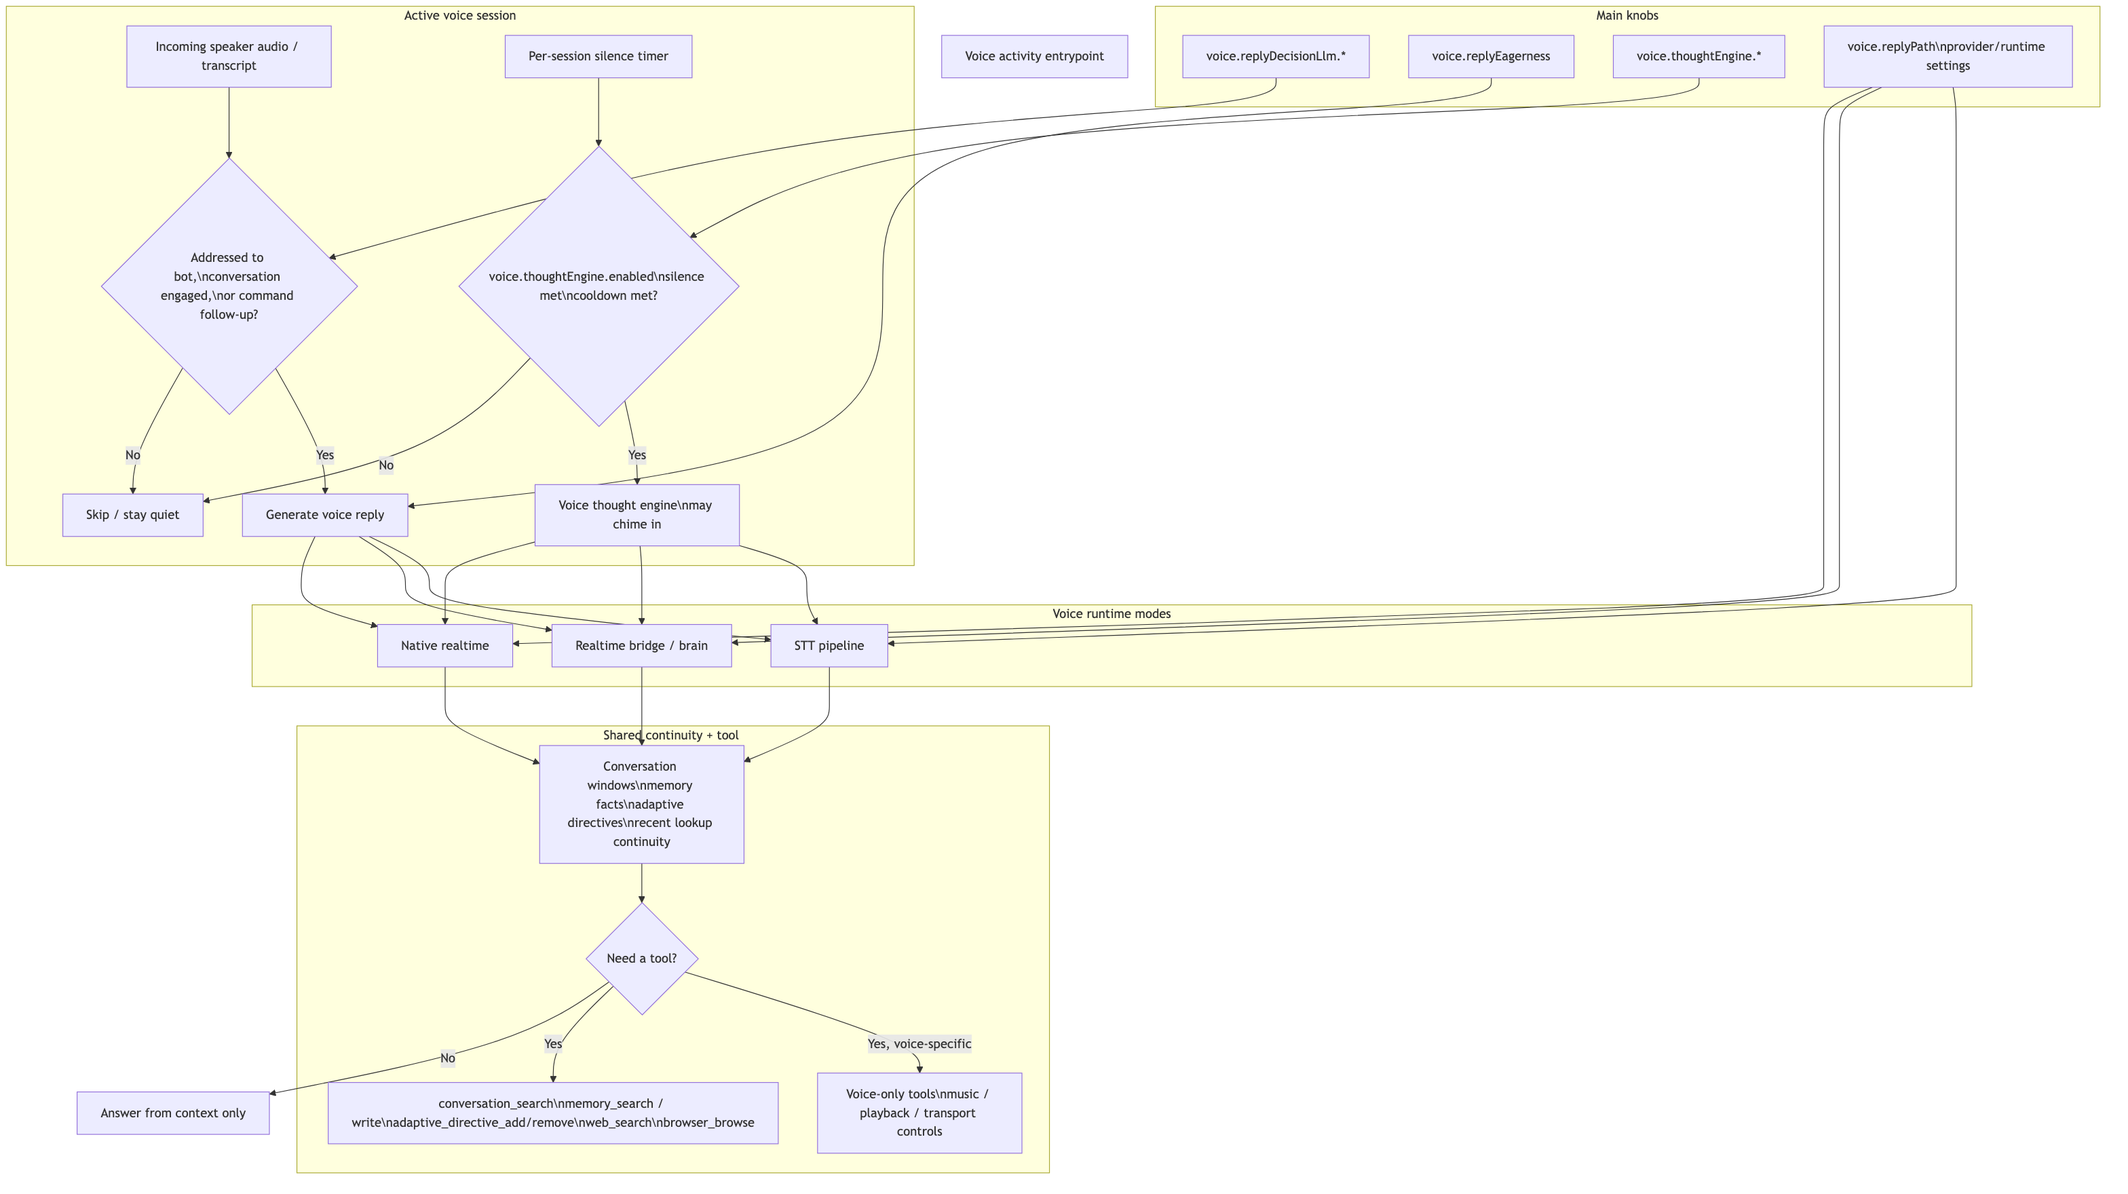
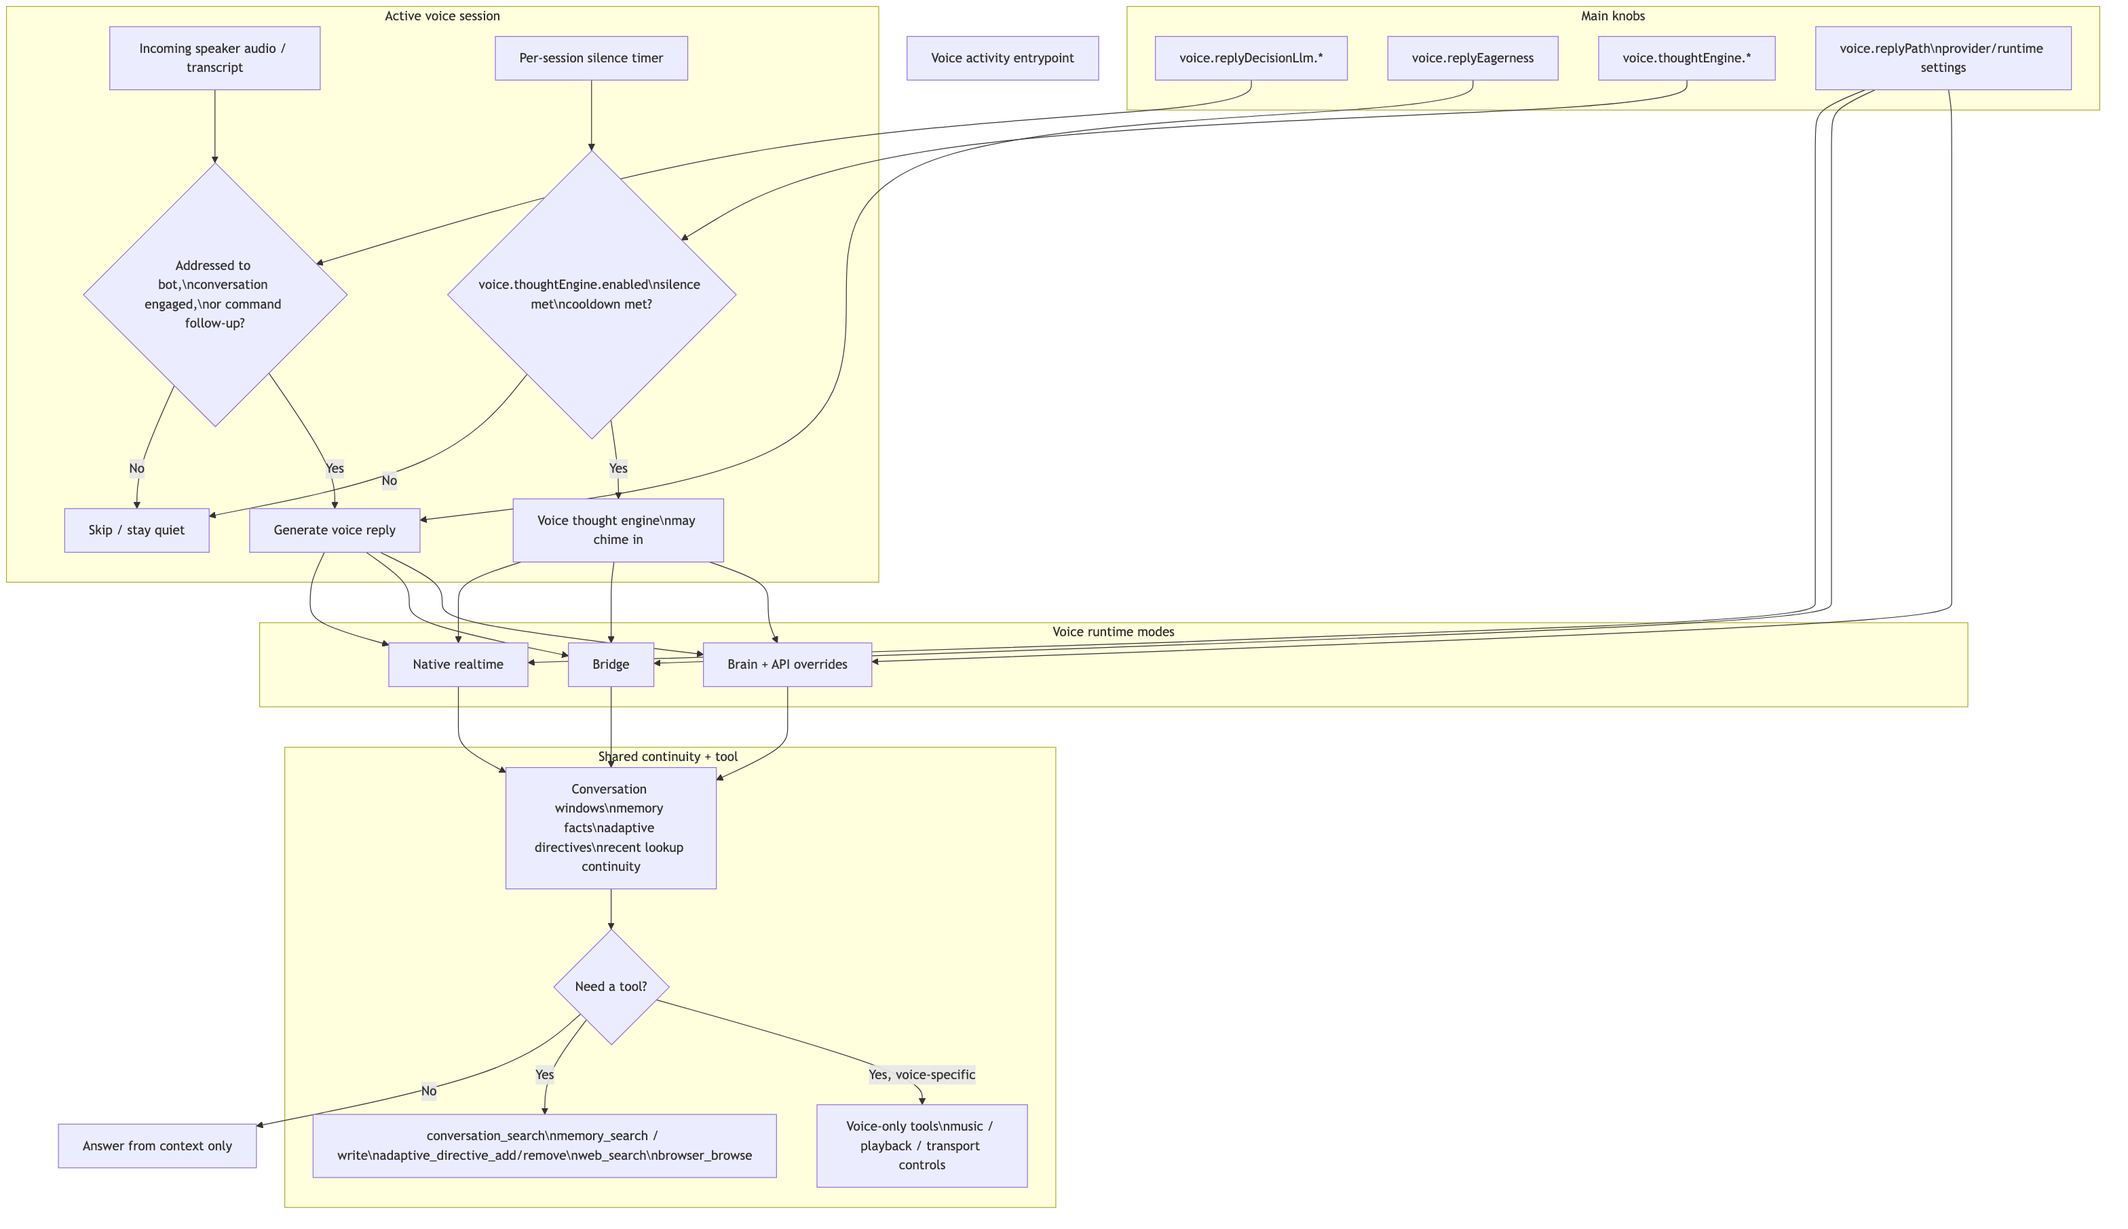
Modernize dashboard/settings docs and finish cleanup pass
Why:
After the larger voice, tool, and memory changes, a small set of supporting files still needed to be brought into line: dashboard settings routes/tests, provider-selection expectations, runtime action logging, and the remaining docs/readme references. This final pass closes those gaps so the branch tells one coherent story end to end.

What changed:
- added dashboard coverage for the modernized VoiceMode settings section
- updated routes/settings and provider-selection expectations to match the current runtime/config normalization behavior
- cleaned up the remaining legacy voice-runtime normalization branch in settings/agentStack
- tightened runtime action logging so skip-cause surfacing follows the updated behavior
- refreshed the remaining docs, diagrams, README, AGENTS note, and archived references so terminology matches the current voice/tool/memory architecture

Product language conclusion:
The supporting dashboard, docs, and test surfaces now match the product as implemented, so operators see the same terminology and behavior that the runtime actually uses.

diff --git a/dashboard/src/components/settingsSections/VoiceModeSettingsSection.test.tsx b/dashboard/src/components/settingsSections/VoiceModeSettingsSection.test.tsx
@@ -1,0 +1,139 @@
+import { test } from "bun:test";
+import assert from "node:assert/strict";
+import React from "react";
+import { renderToStaticMarkup } from "react-dom/server";
+import { normalizeVoiceAdmissionModeForDashboard } from "../../../../src/settings/voiceDashboardMappings.ts";
+import { VoiceModeSettingsSection } from "./VoiceModeSettingsSection.tsx";
+
+function noop() {}
+
+function buildProps(mode: unknown, formOverrides: Record<string, unknown> = {}) {
+  return {
+    id: "voice-mode",
+    form: {
+      voiceEnabled: true,
+      voiceProvider: "openai",
+      voiceReplyPath: "brain",
+      voiceTtsMode: "realtime",
+      voiceOpenAiRealtimeTranscriptionMethod: "realtime_bridge",
+      voiceOpenAiRealtimeUsePerUserAsrBridge: false,
+      voiceCommandOnlyMode: false,
+      voiceReplyDecisionRealtimeAdmissionMode: mode,
+      voiceReplyDecisionMusicWakeLatchSeconds: 15,
+      voiceReplyDecisionLlmProvider: "claude-oauth",
+      voiceReplyDecisionLlmModel: "claude-haiku-4-5",
+      voiceReplyEagerness: 50,
+      voiceDefaultInterruptionMode: "anyone",
+      voiceGenerationLlmUseTextModel: false,
+      voiceGenerationLlmProvider: "claude-oauth",
+      voiceGenerationLlmModel: "claude-sonnet-4-6",
+      voiceStreamingEnabled: true,
+      voiceStreamingEagerFirstChunkChars: 30,
+      voiceStreamingMaxBufferChars: 300,
+      voiceAsrEnabled: true,
+      voiceAsrLanguageMode: "auto",
+      voiceAsrLanguageHint: "en",
+      voiceOpenAiRealtimeModel: "gpt-realtime",
+      voiceOpenAiRealtimeVoice: "alloy",
+      voiceMaxSessionMinutes: 30,
+      voiceInactivityLeaveSeconds: 300,
+      voiceMaxSessionsPerDay: 120,
+      voiceOperationalMessages: "minimal",
+      voiceAllowNsfwHumor: true,
+      voiceThoughtEngineEnabled: false,
+      voiceStreamWatchEnabled: false,
+      voiceSoundboardEnabled: false,
+      voiceStreamWatchCommentaryPath: "auto",
+      voiceStreamWatchBrainContextProvider: "",
+      voiceStreamWatchBrainContextModel: "",
+      provider: "claude-oauth",
+      model: "claude-opus-4-6",
+      visionProvider: "openai",
+      visionModel: "gpt-5-mini",
+      ...formOverrides
+    },
+    set: () => noop,
+    showVoiceSettings: true,
+    isVoiceAgentMode: false,
+    isOpenAiRealtimeMode: true,
+    isGeminiRealtimeMode: false,
+    isElevenLabsRealtimeMode: false,
+    setVoiceGenerationProvider: noop,
+    selectVoiceGenerationPresetModel: noop,
+    voiceGenerationModelOptions: ["claude-sonnet-4-6"],
+    selectedVoiceGenerationPresetModel: "claude-sonnet-4-6",
+    setVoiceThoughtEngineProvider: noop,
+    selectVoiceThoughtEnginePresetModel: noop,
+    voiceThoughtEngineModelOptions: ["claude-sonnet-4-6"],
+    selectedVoiceThoughtEnginePresetModel: "claude-sonnet-4-6",
+    setVoiceReplyDecisionProvider: noop,
+    selectVoiceReplyDecisionPresetModel: noop,
+    voiceReplyDecisionModelOptions: ["claude-haiku-4-5"],
+    selectedVoiceReplyDecisionPresetModel: "claude-haiku-4-5",
+    xAiVoiceOptions: ["Ara"],
+    openAiRealtimeModelOptions: ["gpt-realtime"],
+    openAiRealtimeVoiceOptions: ["alloy"],
+    openAiTranscriptionModelOptions: ["gpt-4o-mini-transcribe"],
+    geminiRealtimeModelOptions: ["gemini-2.5-flash"],
+    setStreamWatchVisionProvider: noop,
+    selectStreamWatchVisionPresetModel: noop,
+    streamWatchVisionModelOptions: ["gpt-5-mini"],
+    selectedStreamWatchVisionPresetModel: "gpt-5-mini"
+  };
+}
+
+test("normalizeVoiceAdmissionModeForDashboard maps legacy aliases to canonical values", () => {
+  assert.equal(normalizeVoiceAdmissionModeForDashboard("generation_only"), "generation_decides");
+  assert.equal(normalizeVoiceAdmissionModeForDashboard("generation_decides"), "generation_decides");
+  assert.equal(normalizeVoiceAdmissionModeForDashboard("adaptive"), "generation_decides");
+  assert.equal(normalizeVoiceAdmissionModeForDashboard("hard_classifier"), "classifier_gate");
+  assert.equal(normalizeVoiceAdmissionModeForDashboard("classifier_gate"), "classifier_gate");
+});
+
+test("voice admission select renders canonical classifier mode as selected", () => {
+  const markup = renderToStaticMarkup(
+    React.createElement(VoiceModeSettingsSection, buildProps("classifier_gate"))
+  );
+
+  assert.match(markup, /<option value="generation_decides">Off \(generation decides\)<\/option>/);
+  assert.match(markup, /<option value="classifier_gate" selected="">On \(classifier gate\)<\/option>/);
+});
+
+test("voice admission select renders legacy generation_only as the off option", () => {
+  const markup = renderToStaticMarkup(
+    React.createElement(VoiceModeSettingsSection, buildProps("generation_only"))
+  );
+
+  assert.match(markup, /<option value="generation_decides" selected="">Off \(generation decides\)<\/option>/);
+  assert.match(markup, /<option value="classifier_gate">On \(classifier gate\)<\/option>/);
+});
+
+test("bridge path hides TTS mode controls and advertises provider-native tools", () => {
+  const markup = renderToStaticMarkup(
+    React.createElement(
+      VoiceModeSettingsSection,
+      buildProps("classifier_gate", {
+        voiceReplyPath: "bridge",
+        voiceTtsMode: "api"
+      })
+    )
+  );
+
+  assert.equal(markup.includes("TTS Mode"), false);
+  assert.equal(markup.includes("provider-native tools where supported"), true);
+});
+
+test("full brain path keeps TTS mode controls visible", () => {
+  const markup = renderToStaticMarkup(
+    React.createElement(
+      VoiceModeSettingsSection,
+      buildProps("generation_decides", {
+        voiceReplyPath: "brain",
+        voiceTtsMode: "api"
+      })
+    )
+  );
+
+  assert.equal(markup.includes("TTS Mode"), true);
+  assert.equal(markup.includes("TTS API"), true);
+});

diff --git a/src/dashboard/routesSettings.ts b/src/dashboard/routesSettings.ts
@@ -9,14 +9,16 @@ import {
   getResolvedFollowupBinding,
   getResolvedMemoryBinding,
   getResolvedVisionBinding,
-  getResolvedVoiceProvider,
   getResolvedVoiceInitiativeBinding,
   getResolvedVoiceAdmissionClassifierBinding,
   getResolvedVoiceGenerationBinding,
-  getVoiceAdmissionSettings,
   getVoiceRuntimeConfig,
   resolveAgentStack
 } from "../settings/agentStack.ts";
+import {
+  normalizeVoiceAdmissionModeForDashboard,
+  resolveVoiceRuntimeSelectionFromMode
+} from "../settings/voiceDashboardMappings.ts";
 import { normalizeSettings } from "../store/settingsNormalization.ts";
 import { readDashboardBody, toRecord } from "./shared.ts";
 
@@ -49,7 +51,6 @@ export function attachSettingsRoutes(app: DashboardApp, deps: SettingsRouteDeps)
     const preset = String(body.preset || "openai_native").trim();
     const settings = normalizeSettings({ agentStack: { preset } });
     const resolved = resolveSettingsBindings(settings);
-    const voiceAdmission = getVoiceAdmissionSettings(settings);
     const voiceRuntime = getVoiceRuntimeConfig(settings);
     const classifierFallback = resolved.voiceAdmissionClassifierBinding || resolved.orchestrator;
     const generationBinding = resolved.voiceGenerationBinding;
@@ -57,7 +58,9 @@ export function attachSettingsRoutes(app: DashboardApp, deps: SettingsRouteDeps)
       stackPreset: preset,
       provider: resolved.orchestrator.provider,
       model: resolved.orchestrator.model,
-      voiceReplyDecisionRealtimeAdmissionMode: String(voiceAdmission.mode || "adaptive"),
+      voiceReplyDecisionRealtimeAdmissionMode: normalizeVoiceAdmissionModeForDashboard(
+        resolved.agentStack.voiceAdmissionPolicy.mode
+      ),
       voiceReplyDecisionLlmProvider: classifierFallback.provider,
       voiceReplyDecisionLlmModel: classifierFallback.model,
       voiceGenerationLlmUseTextModel: voiceRuntime.generation?.mode !== "dedicated_model",
@@ -211,7 +214,7 @@ function resolveSettingsBindings(settings: unknown) {
     followupBinding: getResolvedFollowupBinding(settings),
     memoryBinding: getResolvedMemoryBinding(settings),
     visionBinding: getResolvedVisionBinding(settings),
-    voiceProvider: getResolvedVoiceProvider(settings),
+    voiceProvider: resolveVoiceRuntimeSelectionFromMode(getVoiceRuntimeConfig(settings).runtimeMode),
     voiceInitiativeBinding: getResolvedVoiceInitiativeBinding(settings),
     voiceAdmissionClassifierBinding: getResolvedVoiceAdmissionClassifierBinding(settings),
     voiceGenerationBinding: getResolvedVoiceGenerationBinding(settings)

diff --git a/src/services/runtimeActionLogger.ts b/src/services/runtimeActionLogger.ts
@@ -145,16 +145,16 @@ function formatSkipBadge(skipKind) {
 }
 
 function formatSkipReason(payload, skipKind) {
-  const meta = payload.metadata;
-  if (!meta || typeof meta !== "object") return "";
+  const rawMeta = payload.metadata;
+  if (!rawMeta || typeof rawMeta !== "object") return "";
   if (skipKind === "deny") {
-    const reason = meta.reason || meta.classifierReason || "";
-    const classifier = meta.classifierDecision || "";
-    const confidence = Number.isFinite(meta.classifierConfidence)
-      ? ` conf=${Number(meta.classifierConfidence).toFixed(2)}`
+    const reason = rawMeta.reason || rawMeta.classifierReason || "";
+    const classifier = rawMeta.classifierDecision || "";
+    const confidence = Number.isFinite(rawMeta.classifierConfidence)
+      ? ` conf=${Number(rawMeta.classifierConfidence).toFixed(2)}`
       : "";
-    const latency = Number.isFinite(meta.classifierLatencyMs)
-      ? ` ${meta.classifierLatencyMs}ms`
+    const latency = Number.isFinite(rawMeta.classifierLatencyMs)
+      ? ` ${rawMeta.classifierLatencyMs}ms`
       : "";
     const parts = [];
     if (reason) parts.push(`${BRIGHT_RED}${reason}${RESET}`);
@@ -167,12 +167,17 @@ function formatSkipReason(payload, skipKind) {
     const content = String(payload.content || "").trim();
     return content ? `  ${BRIGHT_RED}${content}${RESET}` : "";
   }
-  // "drop" — show the drop reason from event name
+  // "drop" — show the drop reason from event name or metadata
+  const meta = isPlainObject(payload.metadata) ? payload.metadata : {};
+  const skipCause = String(meta.skipCause || "").trim();
+  if (skipCause) {
+    return `  ${BRIGHT_YELLOW}${skipCause}${RESET}`;
+  }
   const event = String(payload.event || "");
   const shortReason = event
     .replace(/^voice_turn_dropped_/, "")
     .replace(/^realtime_turn_/, "")
-    .replace(/^stt_pipeline_turn_/, "");
+    .replace(/^file_asr_turn_/, "");
   return shortReason !== event ? `  ${DIM}${shortReason}${RESET}` : "";
 }
 

diff --git a/src/bot/voiceReplies.test.ts b/src/bot/voiceReplies.test.ts
@@ -571,7 +571,7 @@ test("generateVoiceTurnReply streams sentence chunks when voice streaming is ena
   assert.equal(reply.streamedSentenceCount, 2);
 });
 
-test("generateVoiceTurnReply streams an unpunctuated first chunk once it reaches a clean word boundary", async () => {
+test("generateVoiceTurnReply keeps the first streamed chunk intact until punctuation arrives", async () => {
   const streamed: string[] = [];
   const { bot } = createVoiceBot({
     generationSequence: [
@@ -599,9 +599,9 @@ test("generateVoiceTurnReply streams an unpunctuated first chunk once it reaches
     }
   });
 
-  assert.deepEqual(streamed, ["yo vuhlp, what's good", "right now"]);
+  assert.deepEqual(streamed, ["yo vuhlp, what's good right now"]);
   assert.equal(reply.text, "yo vuhlp, what's good right now");
-  assert.equal(reply.streamedSentenceCount, 2);
+  assert.equal(reply.streamedSentenceCount, 1);
 });
 
 test("generateVoiceTurnReply preserves spoken text across tool-loop turns", async () => {

diff --git a/src/llm/llm.providerSelection.test.ts b/src/llm/llm.providerSelection.test.ts
@@ -624,7 +624,16 @@ test("generateStreaming falls back to batch generation for non-streaming provide
 
   const deltas: string[] = [];
   const result = await service.generateStreaming({
-    settings: { llm: { provider: "xai", model: "grok-3-mini-latest" } },
+    settings: {
+      agentStack: {
+        overrides: {
+          orchestrator: {
+            provider: "xai",
+            model: "grok-3-mini-latest"
+          }
+        }
+      }
+    },
     systemPrompt: "system",
     userPrompt: "user",
     contextMessages: [],

diff --git a/src/settings/agentStack.ts b/src/settings/agentStack.ts
@@ -535,7 +535,6 @@ function normalizeResolvedVoiceRuntime(value: unknown, fallback: string) {
   if (normalized === "voice_agent") return "voice_agent";
   if (normalized === "gemini_realtime") return "gemini_realtime";
   if (normalized === "elevenlabs_realtime") return "elevenlabs_realtime";
-  if (normalized === "stt_pipeline") return "stt_pipeline";
   return fallback;
 }
 

diff --git a/docs/clanker-activity.md b/docs/clanker-activity.md
@@ -204,7 +204,7 @@ Decision flow:
 - Command followup → fast-path allow
 - Eagerness disabled → block
 - Addressed-to-other signal → classifier context (strong deny prior, not hard deterministic block)
-- STT pipeline mode → `generation_decides` (the text LLM handles skip via `[SKIP]`)
+- Full-brain/file-ASR path → `generation_decides` (the text LLM handles skip via `[SKIP]`)
 - Music playing and no wake latch → `music_playing_not_awake`
 - `voice.admission.mode=classifier_gate` → classifier YES/NO → `classifier_allow` / `classifier_deny`
 - `voice.admission.mode=generation_decides` → `generation_decides`
@@ -217,7 +217,7 @@ Relevant code:
 - `evaluateVoiceReplyDecision(...)` in `src/voice/voiceReplyDecision.ts`
 - `runVoiceReplyClassifier(...)` in `src/voice/voiceReplyDecision.ts`
 - `buildVoiceAddressingState(...)` in `src/voice/voiceAddressing.ts`
-- `runRealtimeTurn(...)` and `runSttPipelineTurn(...)` in `src/voice/turnProcessor.ts`
+- `runRealtimeTurn(...)` and `runFileAsrTurn(...)` in `src/voice/turnProcessor.ts`
 
 ### 7. Voice Thought Engine
 
@@ -255,7 +255,7 @@ There are three voice runtime styles to keep in mind:
     - `classifier_gate`: YES/NO classifier gate
     - `generation_decides`: generation decides reply vs skip
 
-- `stt_pipeline`
+- `brain` with `voice.openaiRealtime.transcriptionMethod="file_wav"` and/or `voice.ttsMode="api"`
   - transcription, text generation, and TTS are separate stages
   - the text LLM decides whether to reply or `[SKIP]` (reason: `generation_decides`)
 
@@ -440,7 +440,7 @@ These affect discovery posts only, not normal conversation replies.
 - `agentStack.runtimeConfig.voice.generation.*`
   - model used for voice-turn generation in non-native generation paths and `generation_decides` admission behavior
 
-- `voice.openaiRealtime.*`, `voice.geminiRealtime.*`, `voice.elevenLabsRealtime.*`, `voice.sttPipeline.*`
+- `voice.openaiRealtime.*`, `voice.geminiRealtime.*`, `voice.elevenLabsRealtime.*`, `voice.openaiAudioApi.*`
   - provider- and transport-specific controls
 
 ## Tool Calling Model
@@ -490,7 +490,7 @@ Realtime voice has its own transport, but the same conceptual tool model:
 Important operator expectation:
 
 - the tool surface is mostly shared
-- the transport differs between text replies, STT pipeline, and realtime function calls
+- the transport differs between native realtime, bridge, and full-brain/API-override replies
 - some tools remain modality-specific when they only make sense in voice
 
 Relevant code:

diff --git a/docs/e2e-test-spec.md b/docs/e2e-test-spec.md
@@ -30,7 +30,7 @@ By default judge scoring is enabled in both simulated and live runs. Use `--no-j
 ```sh
 bun scripts/voiceGoldenHarness.ts \
   --mode live \
-  --modes stt_pipeline,voice_agent,openai_realtime,gemini_realtime,elevenlabs_realtime \
+  --modes voice_agent,openai_realtime,gemini_realtime,elevenlabs_realtime \
   --iterations 1 \
   --judge-provider claude-oauth \
   --judge-model claude-haiku-4-5 \
@@ -554,7 +554,7 @@ For deeper validation beyond byte counting:
 // Capture raw audio
 const audioBuffer = driver.getReceivedAudioBuffer();
 
-// Transcribe it (reuse existing STT pipeline)
+// Transcribe it (reuse the existing speech-transcription helper)
 const transcript = await transcribeWithStt(audioBuffer);
 
 // Judge quality (reuse existing judge infrastructure)

diff --git a/README.md b/README.md
@@ -74,7 +74,7 @@ For optional local code-agent runtimes, ensure `claude` and/or `codex` CLI is on
 ### Provider Notes
 
 - `XAI_API_KEY` — Grok text models, `voice_agent` mode, Grok Imagine media generation
-- `OPENAI_API_KEY` — `openai_realtime` voice mode, STT pipeline mode
+- `OPENAI_API_KEY` — `openai_realtime` voice mode and OpenAI file-ASR/API-TTS voice overrides
 - `CODEX_OAUTH_REFRESH_TOKEN` — experimental ChatGPT-backed Codex/OpenAI provider (`codex-oauth`)
 - `GOOGLE_API_KEY` — `gemini_realtime` voice mode
 - `ELEVENLABS_API_KEY` — `elevenlabs_realtime` voice mode

diff --git a/AGENTS.md b/AGENTS.md
@@ -1,5 +1,6 @@
 # Repository Instructions
 
+- Include a 'Product language' conclusion in your messages and commit messages when it seems like it makes sense.
 - Refer to docs/openai/openai-realtime-transcription.md when working with openai realtime transcripton or ASR.
 - Refer to docs/openai/openai-realtime-speech.md when working with openai realtime speech.
 - Runtime/package manager standard: use Bun (`bun`, `bun run`, `bunx`) over Node/NPM (`node`, `npm`, `npx`) unless explicitly requested.

diff --git a/docs/archive/completed/memory-retrieval-rewrite.md b/docs/archive/completed/memory-retrieval-rewrite.md
@@ -102,7 +102,7 @@ Replace the `loadPromptMemorySlice` callback parameter with `loadFactProfile`:
 
 The return shape stays the same: `{ memorySlice, recentWebLookups, recentConversationHistory, adaptiveDirectives }`.
 
-### 3b. Update voice STT pipeline caller
+### 3b. Update legacy voice file-ASR caller
 
 **File:** `src/bot/voiceReplies.ts`
 
